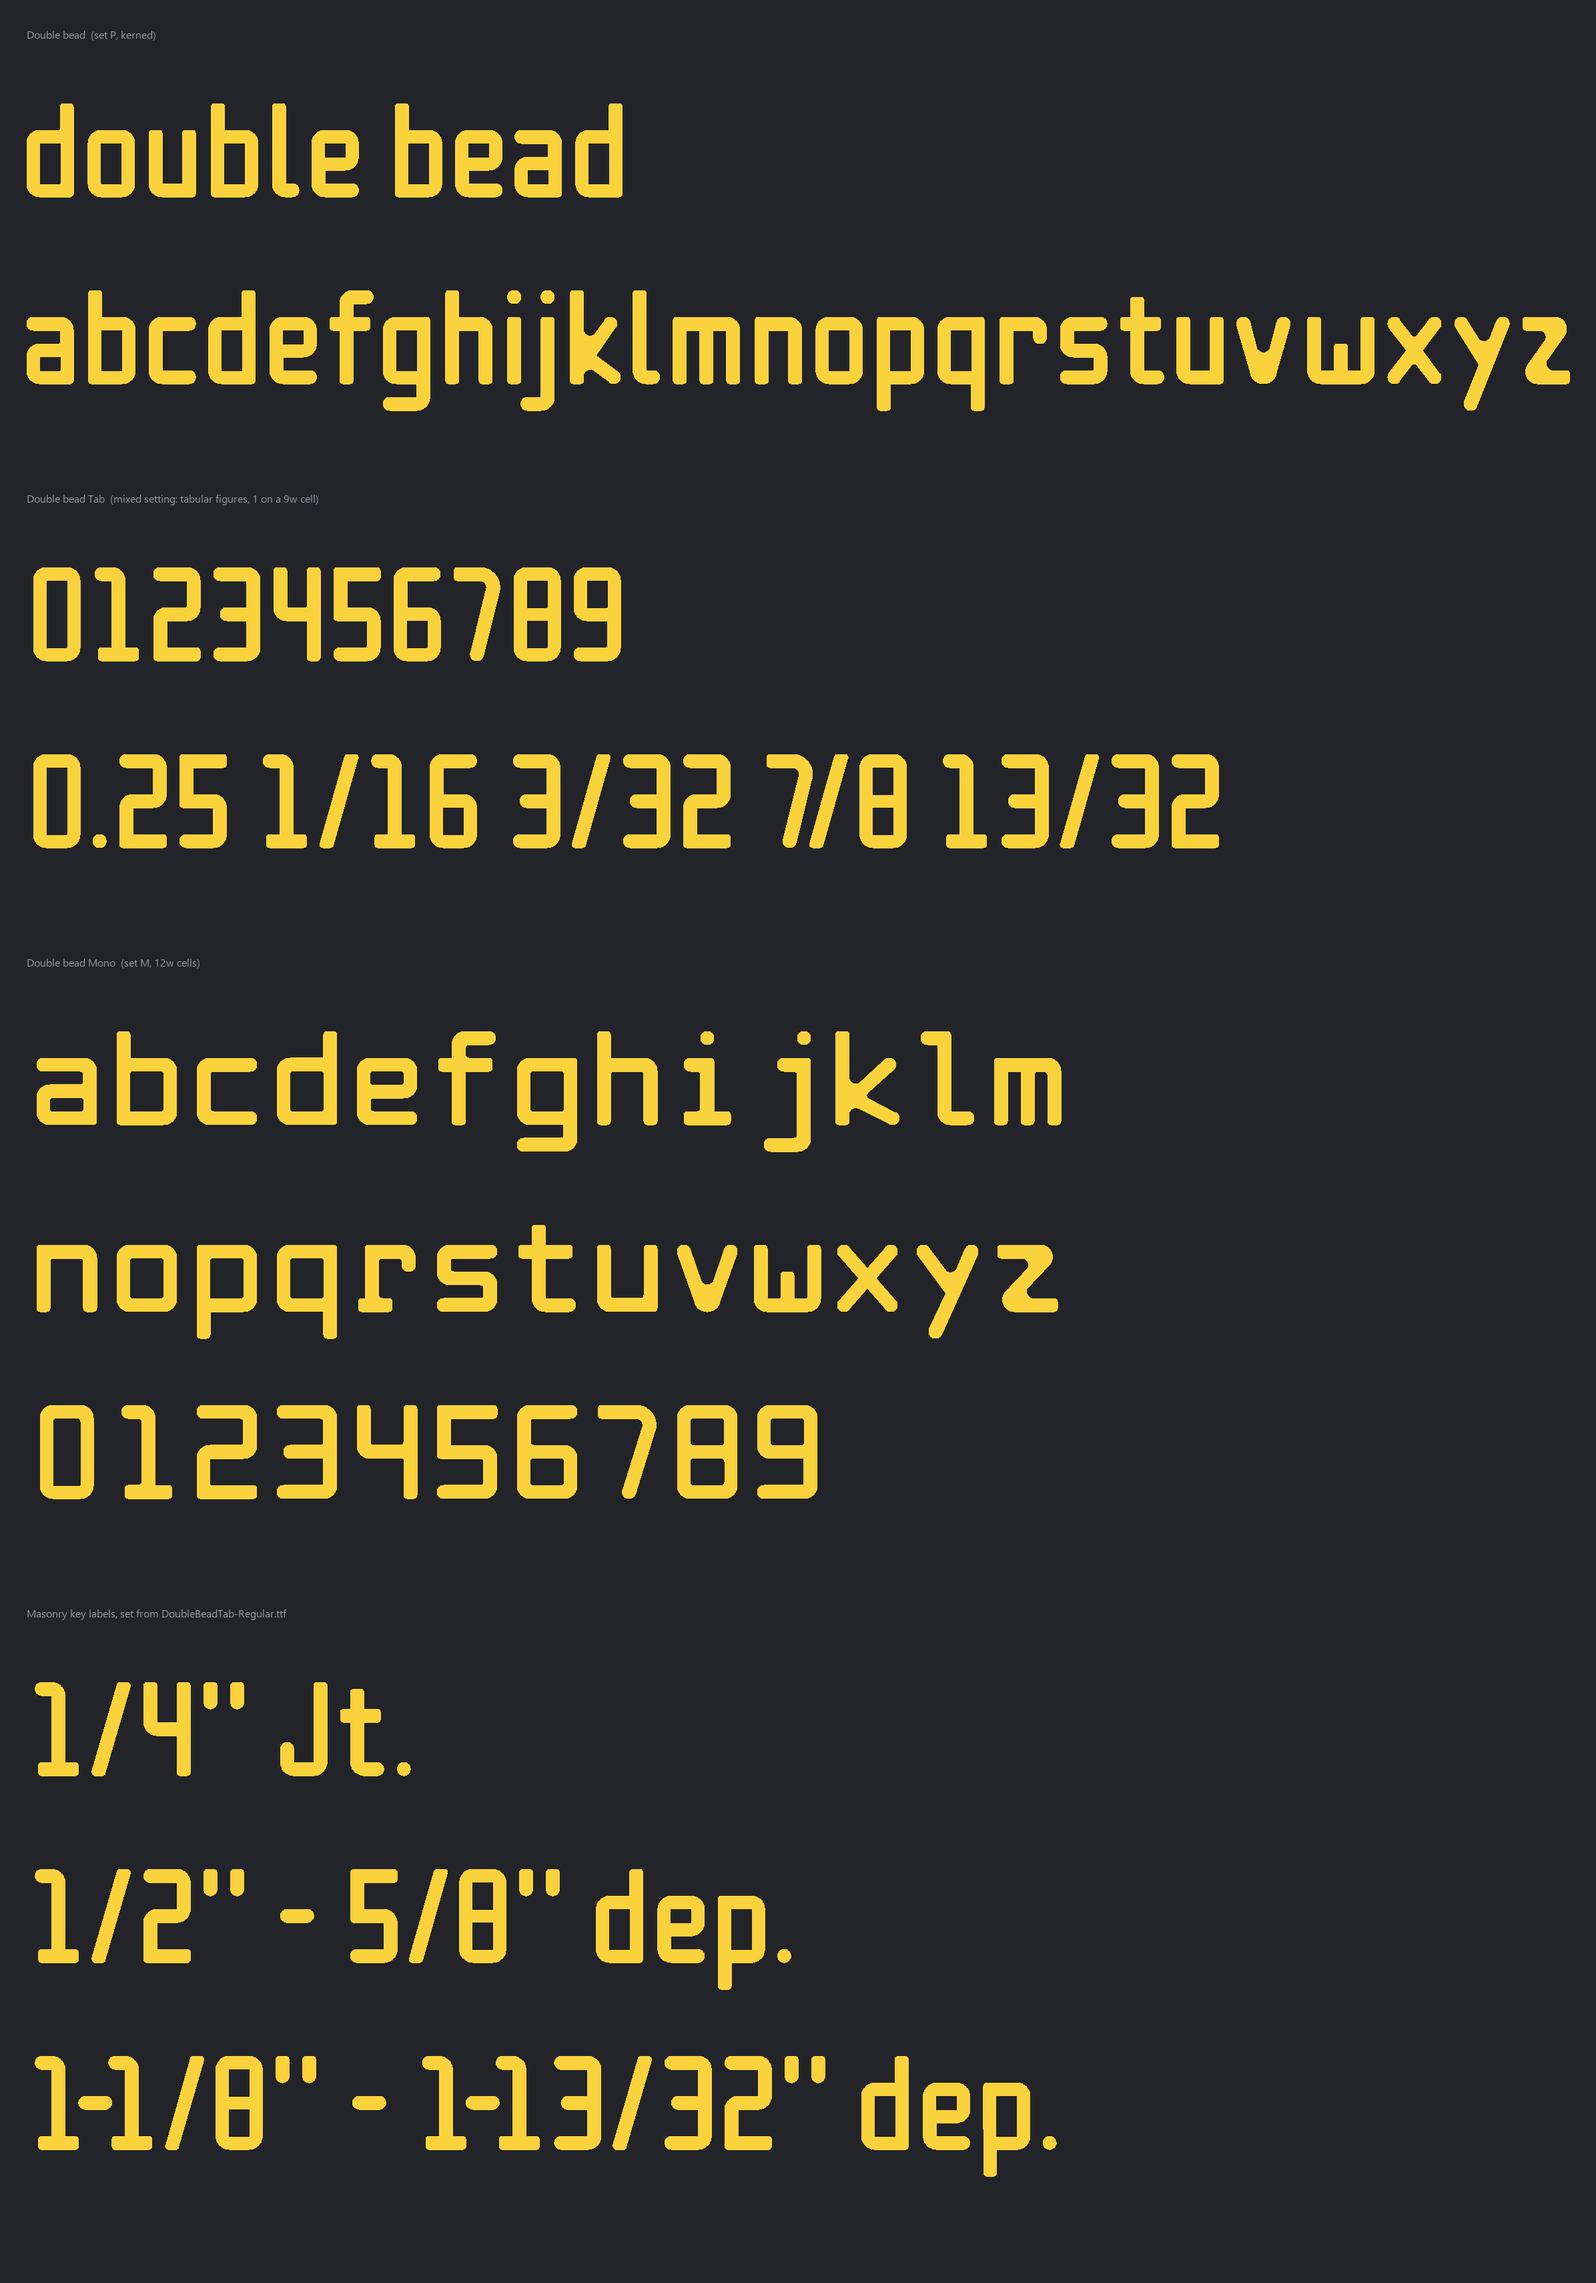
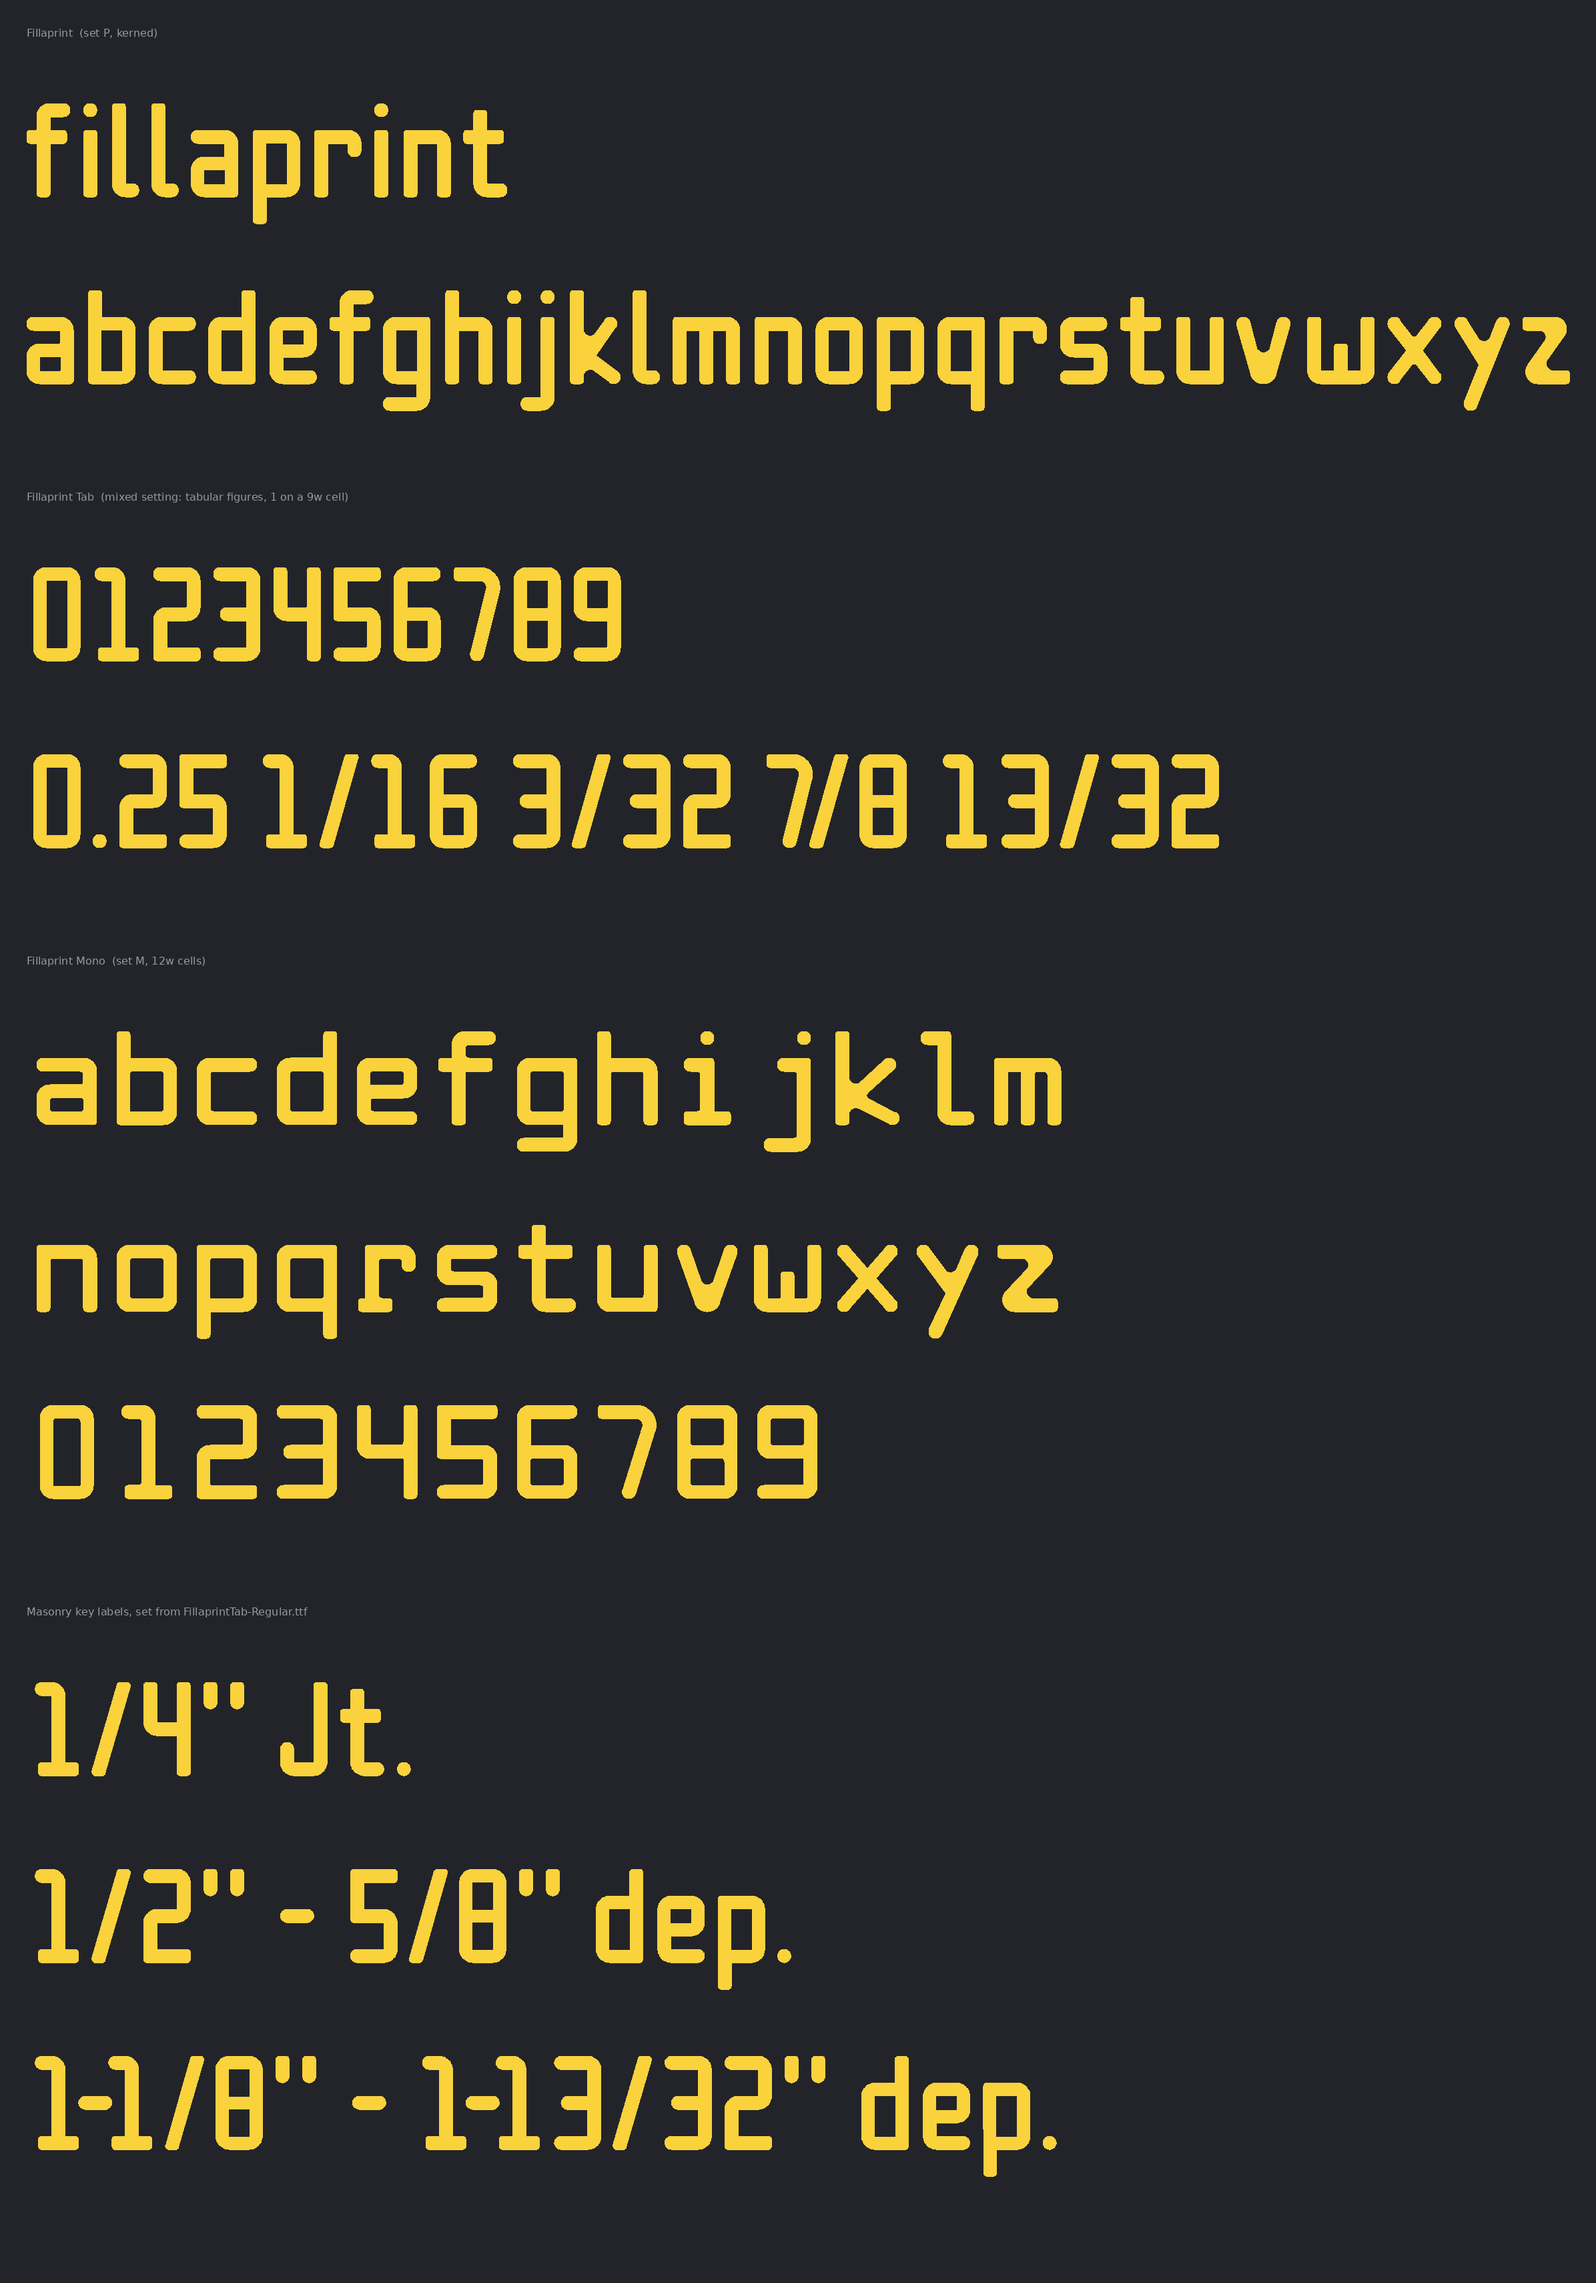
Record beta build verification and release notes

Changed region(s): [[0.0, 0.031, 0.4022, 0.093]]

diff --git a/RELEASE_NOTES.md b/RELEASE_NOTES.md
@@ -1,0 +1,15 @@
+Fillaprint v0.1.0 is a beta typeface for small FDM-printed labels. We are fine-tuning the letterforms, spacing, and print behavior for release, with an eventual Nerd Fonts launch as a future target. This is not an official Nerd Fonts release.
+
+Download **Fillaprint-0.1.0-beta.zip** for all three families, installation notes, and the SIL Open Font License 1.1. Internal OpenType version: **0.100**.
+
+- **Fillaprint:** proportional letters and kerning.
+- **Fillaprint Tab:** proportional letters with equal-width digits.
+- **Fillaprint Mono:** fixed-width character cells.
+
+[Try the font, calculate a print size, and view specimens](https://thereprocase.github.io/fillaprint/).
+
+Nominal strokes and minimum clear gaps use two extrusion widths. Check your own sliced preview. The rebuild uses pinned dependencies and may differ slightly from the earlier working-name binaries. This release rebuilds and packages the existing glyph sources under the Fillaprint name; it does not claim new physical-print validation.
+
+The family names will remain stable for compatible updates. Each release gets a new version and archive. Keep this ZIP with projects that need exact repeatability: future font changes may alter text layout or geometry. Replace installed beta fonts and restart your design application when updating.
+
+Licensed under SIL OFL 1.1 for personal and commercial use. License and copyright notices are included in the ZIP and embedded in each font.
